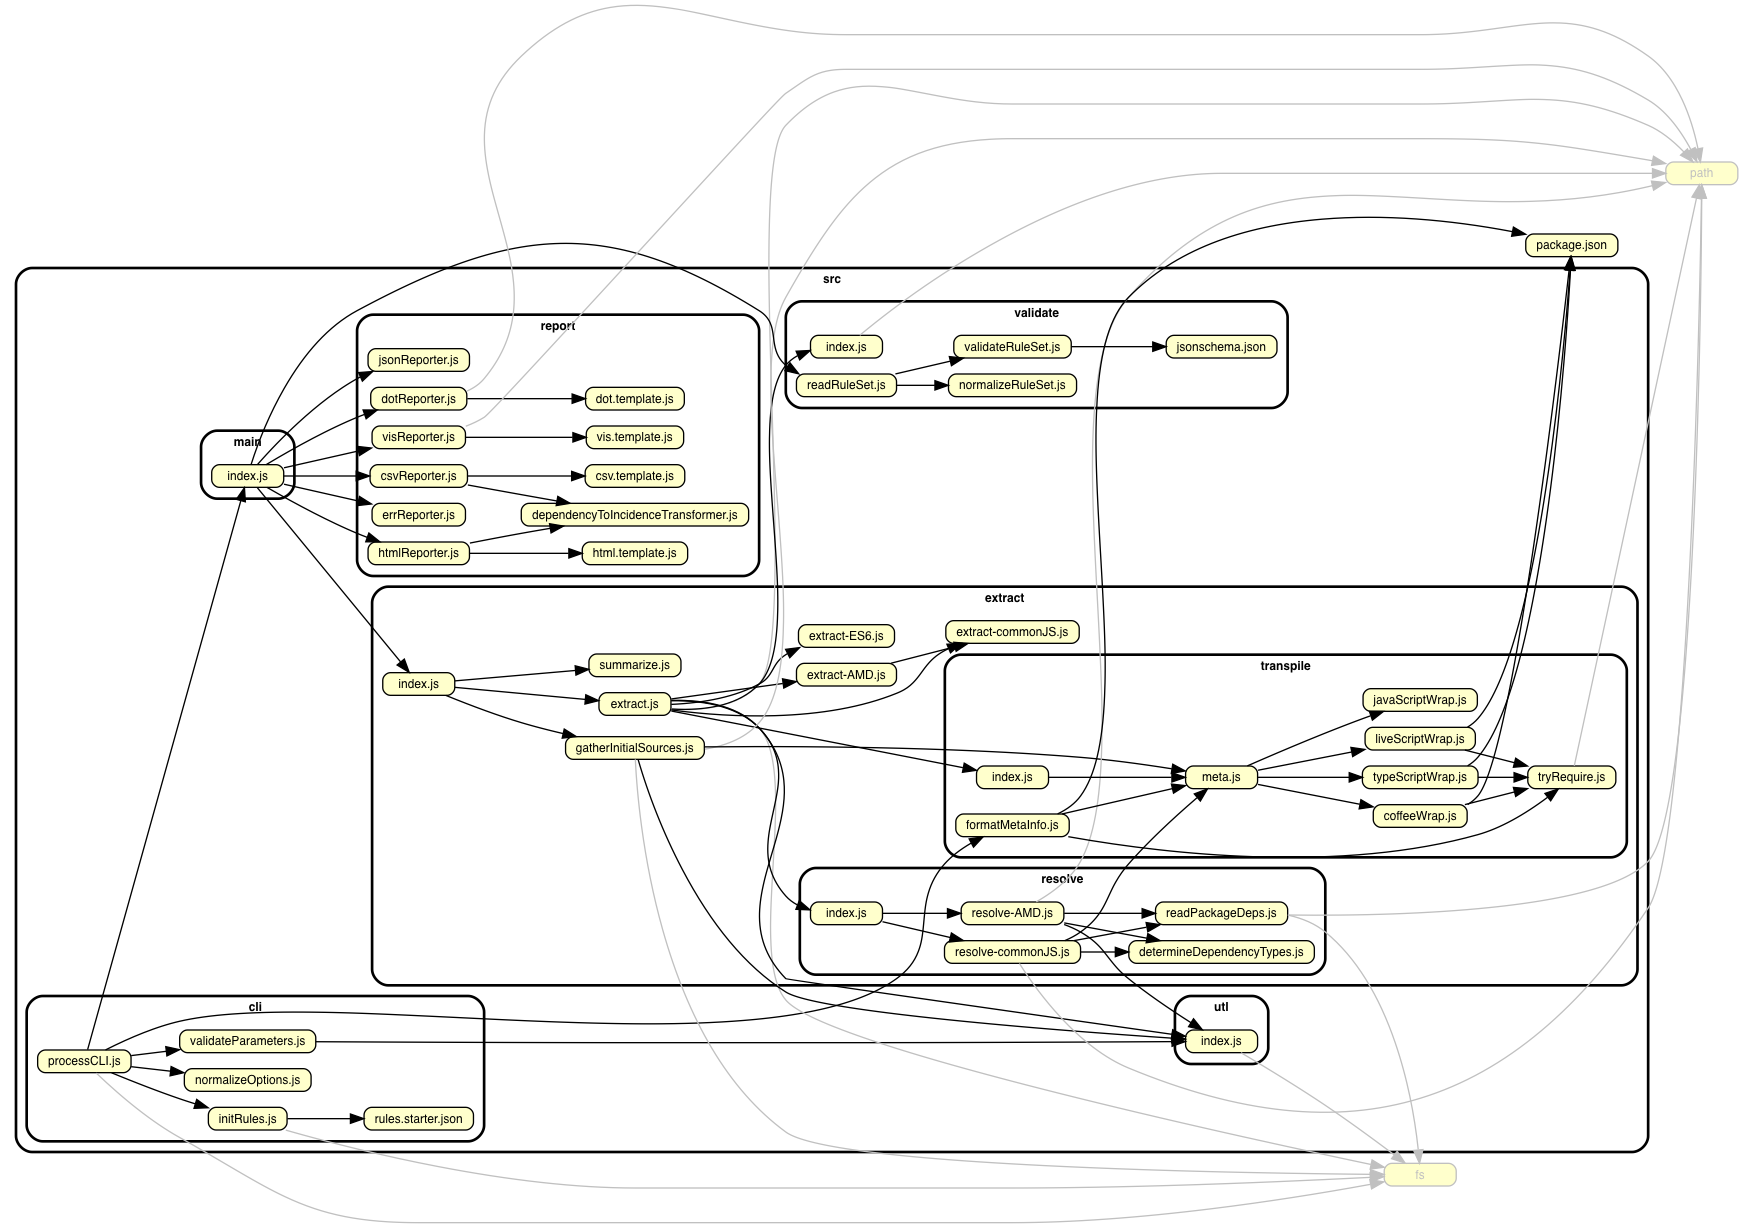
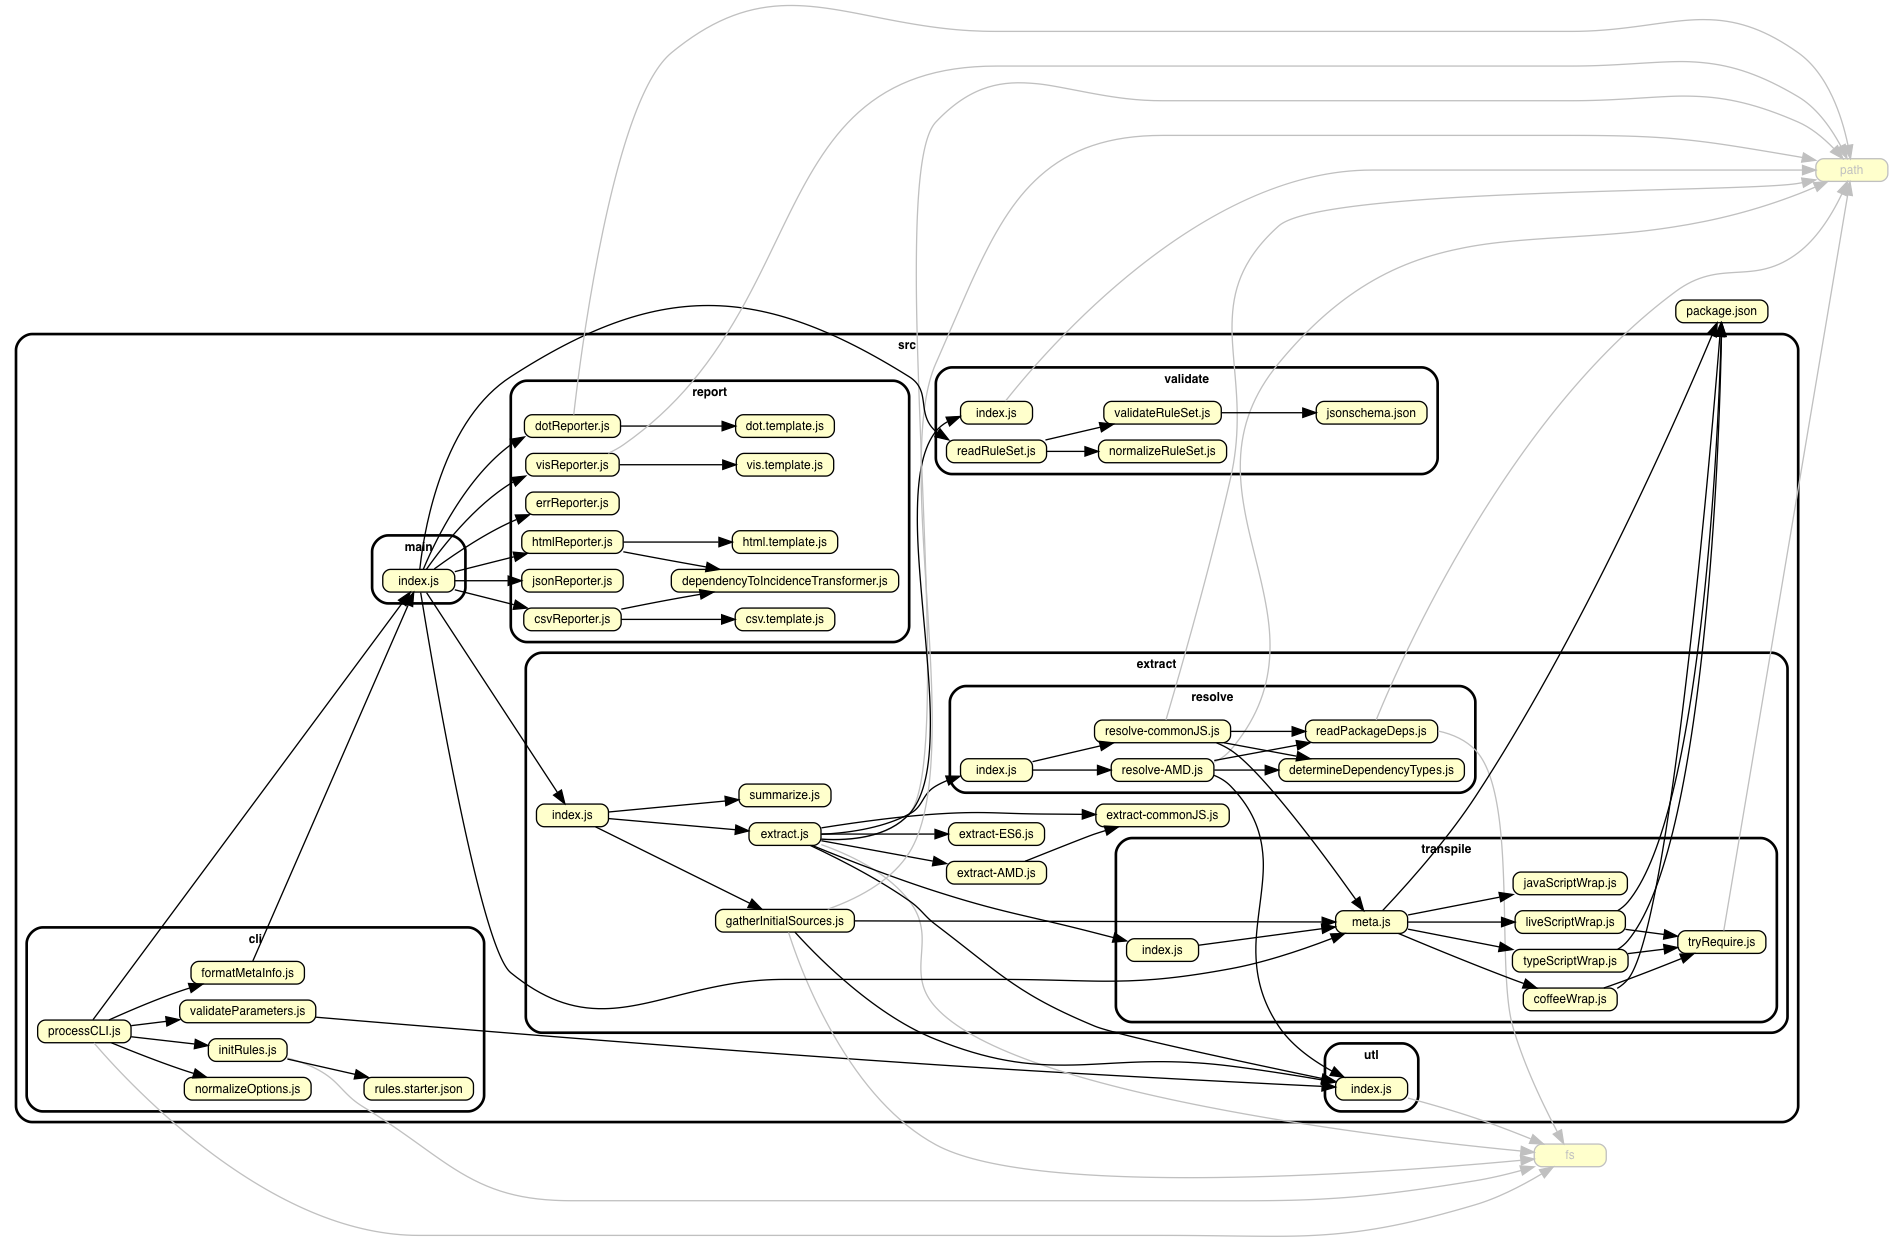
:wrench: makes the cli only rely on main
which makes for a better separation of concern.

diff --git a/src/extract/transpile/meta.js b/src/extract/transpile/meta.js
@@ -1,10 +1,11 @@
 "use strict";
 
-const javaScriptWrap = require("./javaScriptWrap");
-const typeScriptWrap = require("./typeScriptWrap");
-const liveScriptWrap = require("./liveScriptWrap");
-const coffeeWrap     = require("./coffeeWrap")();
-const litCoffeeWrap  = require("./coffeeWrap")(true);
+const javaScriptWrap       = require("./javaScriptWrap");
+const typeScriptWrap       = require("./typeScriptWrap");
+const liveScriptWrap       = require("./liveScriptWrap");
+const coffeeWrap           = require("./coffeeWrap")();
+const litCoffeeWrap        = require("./coffeeWrap")(true);
+const supportedTranspilers = require("../../../package.json").supportedTranspilers;
 
 const extension2wrapper = {
     ".js"        : javaScriptWrap,
@@ -14,6 +15,13 @@ const extension2wrapper = {
     ".coffee"    : coffeeWrap,
     ".litcoffee" : litCoffeeWrap,
     ".coffee.md" : litCoffeeWrap
+};
+
+const transpiler2wrapper = {
+    "javascript"    : javaScriptWrap,
+    "coffee-script" : coffeeWrap,
+    "livescript"    : liveScriptWrap,
+    "typescript"    : typeScriptWrap
 };
 
 module.exports.getWrapper =
@@ -33,5 +41,14 @@ module.exports.scannableExtensions =
         .filter(
             pKey => extension2wrapper[pKey].isAvailable()
         );
+
+module.exports.getAvailableTranspilers =
+    () =>
+        Object.keys(supportedTranspilers).map(pTranspiler => ({
+            name: pTranspiler,
+            version: supportedTranspilers[pTranspiler],
+            available: transpiler2wrapper[pTranspiler].isAvailable()
+        })
+    );
 
 /* eslint security/detect-object-injection : 0*/

diff --git a/src/cli/formatMetaInfo.js b/src/cli/formatMetaInfo.js
@@ -1,19 +1,17 @@
 "use strict";
 
-const supportedTranspilers = require("../../../package.json").supportedTranspilers;
-const allExtensions        = require("./meta").allExtensions;
-const tryRequire           = require("./tryRequire");
-const chalk                = require('chalk');
-const figures              = require('figures');
+const main     = require("../main");
+const chalk   = require('chalk');
+const figures = require('figures');
 
 function bool2Symbol(pBool) {
     return pBool ? chalk.green(figures.tick) : chalk.red(figures.cross);
 }
 
-function formatTranspilers(pTranspilers) {
-    return Object.keys(pTranspilers).reduce(
+function formatTranspilers() {
+    return main.getAvailableTranspilers().reduce(
         (pAll, pThis) =>
-            `${pAll}    ${bool2Symbol(tryRequire(pThis, pTranspilers[pThis]))} ${pThis} (${pTranspilers[pThis]})\n`,
+            `${pAll}    ${bool2Symbol(pThis.available)} ${pThis.name} (${pThis.version})\n`,
         `    ${bool2Symbol(true)} javascript (>es1)\n`
     );
 }
@@ -34,10 +32,10 @@ module.exports = () => `
 
   Transpilers:
 
-${formatTranspilers(supportedTranspilers)}
+${formatTranspilers()}
   Extensions:
 
-${formatExtensions(allExtensions)}
+${formatExtensions(main.allExtensions)}
 `;
 
 

diff --git a/src/main/index.js b/src/main/index.js
@@ -1,6 +1,7 @@
 "use strict";
 
 const extract      = require("../extract");
+const meta         = require("../extract/transpile/meta");
 const readRuleSet  = require("../validate/readRuleSet");
 const reportHtml   = require("../report/htmlReporter");
 const reportJson   = require("../report/jsonReporter");
@@ -63,7 +64,7 @@ const TYPE2REPORTER      = {
  *                info  : the number of informational messages
  *              }
  */
-module.exports = (pFileDirArray, pOptions) => {
+exports.cruise = (pFileDirArray, pOptions) => {
     pOptions = pOptions ? pOptions : {};
 
     if (Boolean(pOptions.ruleSet)){
@@ -76,3 +77,8 @@ module.exports = (pFileDirArray, pOptions) => {
         TYPE2REPORTER[pOptions.outputType]
     );
 };
+
+
+exports.allExtensions = meta.allExtensions;
+
+exports.getAvailableTranspilers = meta.getAvailableTranspilers;

diff --git a/src/cli/processCLI.js b/src/cli/processCLI.js
@@ -5,7 +5,7 @@ const validateParameters = require("./validateParameters");
 const normalizeOptions   = require("./normalizeOptions");
 const initRules          = require("./initRules");
 const main               = require("../main");
-const formatMetaInfo     = require('../extract/transpile/formatMetaInfo');
+const formatMetaInfo     = require('./formatMetaInfo');
 
 
 /* OS pipe buffer size in bytes - which is what ulimit -a tells me on OSX */
@@ -69,7 +69,7 @@ module.exports = (pFileDirArray, pOptions) => {
                 pOptions.ruleSet = fs.readFileSync(pOptions.rulesFile, 'utf8');
             }
 
-            const lDependencyList = main(pFileDirArray, pOptions);
+            const lDependencyList = main.cruise(pFileDirArray, pOptions);
 
             write(pOptions.outputTo, lDependencyList.dependencies);
 

diff --git a/test/extract/transpile/meta.spec.js b/test/extract/transpile/meta.spec.js
@@ -23,4 +23,22 @@ describe("transpiler meta", () => {
             meta.getWrapper(".ls")
         ).to.deep.equal(lsWrap);
     });
+
+    it("returns me the available transpilers", () => {
+        expect(
+            meta.getAvailableTranspilers()
+        ).to.deep.equal([{
+            "name": "coffee-script",
+            "version": ">=1.0.0 <2.0.0",
+            "available": true
+        }, {
+            "name": "livescript",
+            "version": ">=1.0.0 <2.0.0",
+            "available": false
+        }, {
+            "name": "typescript",
+            "version": ">=2.0.0 <3.0.0",
+            "available": true
+        }]);
+    });
 });

diff --git a/test/main/main.spec.js b/test/main/main.spec.js
@@ -9,7 +9,7 @@ chai.use(require('chai-json-schema'));
 
 describe("main", () => {
     it("Returns an object when no options are passed", () => {
-        const lResult = main(["test/main/fixtures/ts"]);
+        const lResult = main.cruise(["test/main/fixtures/ts"]);
 
         expect(lResult).to.deep.equal(tsFixture);
         expect(lResult).to.be.jsonSchema(depSchema);

diff --git a/test/cli/formatMetaInfo.spec.js b/test/cli/formatMetaInfo.spec.js
@@ -1,7 +1,7 @@
 "use strict";
 
 const expect = require("chai").expect;
-const meta   = require("../../../src/extract/transpile/formatMetaInfo");
+const meta   = require("../../src/cli/formatMetaInfo");
 
 describe("transpiler formatted meta information", () => {
     it("tells which extensions can be scanned", () => {
